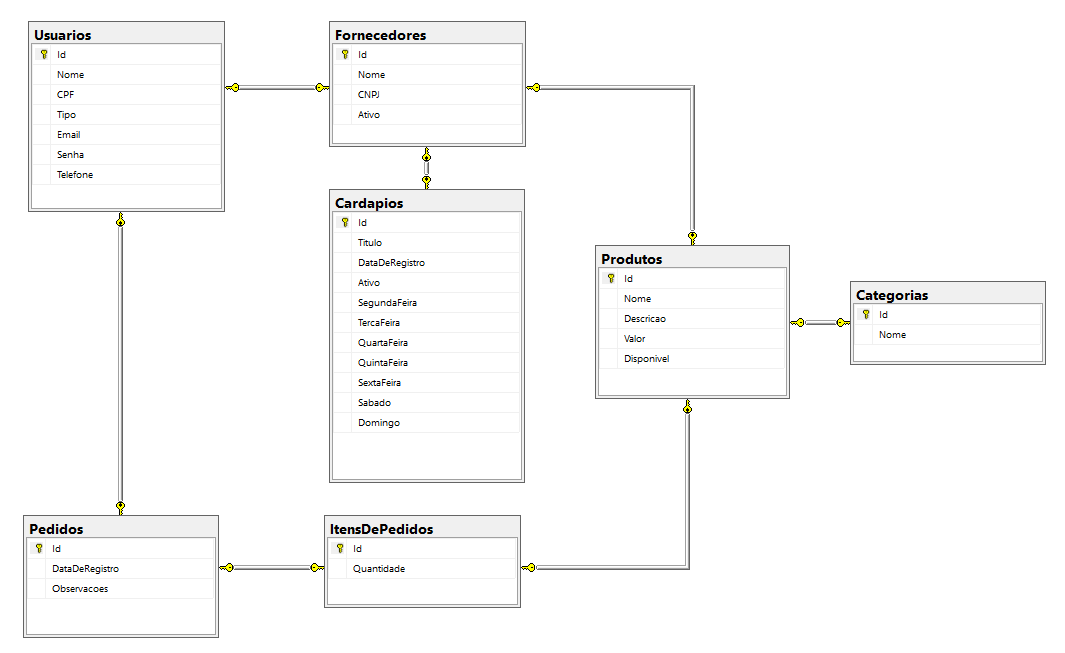
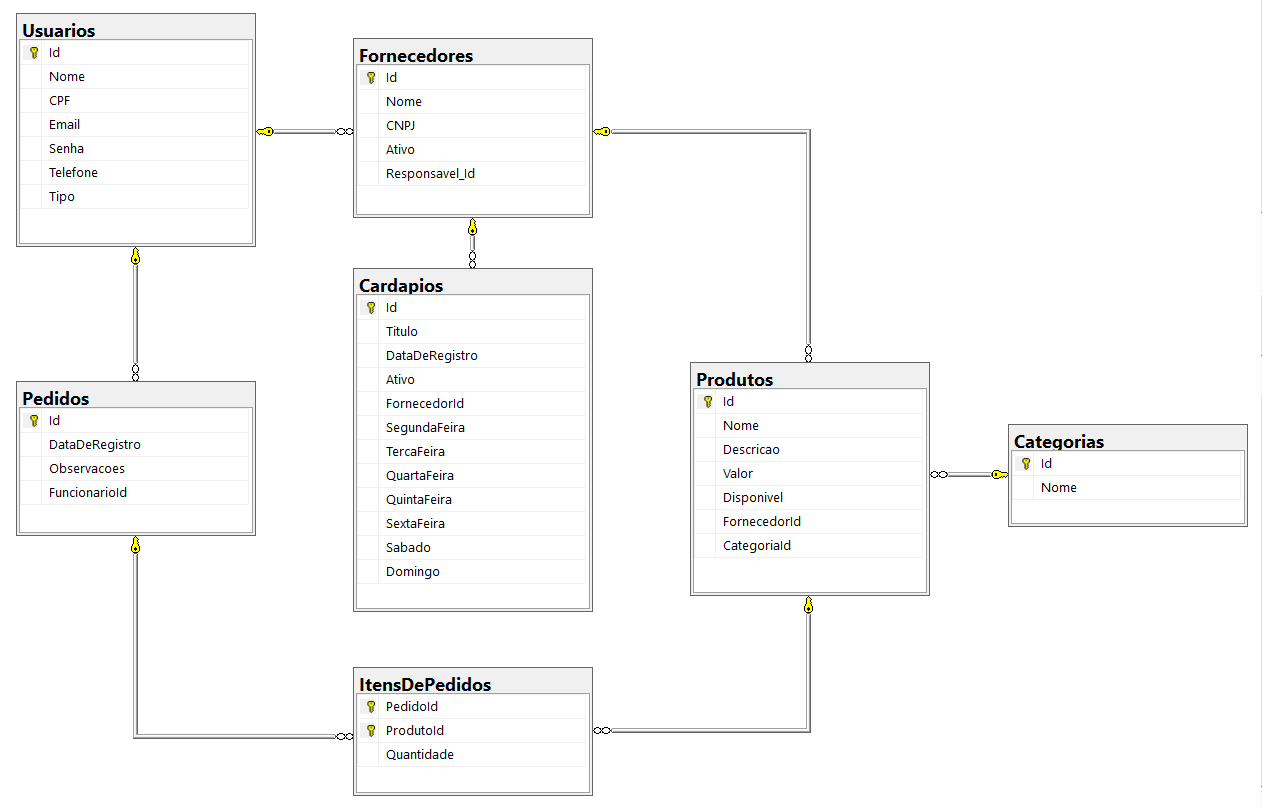
Solução do erro ao criar a chave composta em ItemPedido

diff --git a/AgileFood/Models/Maps/ItemPedidoMap.cs b/AgileFood/Models/Maps/ItemPedidoMap.cs
@@ -13,12 +13,12 @@ namespace AgileFood.Models.Maps
         {
             ToTable("ItensDePedidos");
 
-            //HasKey(a => new { a.PedidoId, a.ProdutoId });
+            HasKey(x => new { x.PedidoId, x.ProdutoId });
 
-            HasKey(x => x.Id)
-                .Property(x => x.Id)
-                .HasDatabaseGeneratedOption(DatabaseGeneratedOption.Identity)
-                .IsRequired();
+            //HasKey(x => x.Id)
+            //    .Property(x => x.Id)
+            //    .HasDatabaseGeneratedOption(DatabaseGeneratedOption.Identity)
+            //    .IsRequired();
 
             Property(x => x.Quantidade)
                 .IsRequired();

diff --git a/AgileFood/Models/AgiliFoodContext.cs b/AgileFood/Models/AgiliFoodContext.cs
@@ -9,7 +9,9 @@ namespace AgileFood.Models
     public class AgiliFoodContext : DbContext
     {
 
-        public AgiliFoodContext() : base("name=AgiliFoodContext") { }
+        public AgiliFoodContext() : base("name=AgiliFoodContext") {
+            Database.SetInitializer<AgiliFoodContext>(null);
+        }
 
         public DbSet<Cardapio> Cardapios { get; set; }
         public DbSet<Categoria> Categorias { get; set; }

diff --git a/AgileFood/Models/Produto.cs b/AgileFood/Models/Produto.cs
@@ -16,7 +16,7 @@ namespace AgileFood.Models
         public bool Disponivel { get; set; }
         public int FornecedorId { get; set; }
         public int CategoriaId { get; set; }
-
+        
         public virtual Fornecedor Fornecedor { get; set; }
         public virtual Categoria Categoria { get; set; }
         public virtual ICollection<ItemPedido> Itens { get; set; }

diff --git a/AgileFood/Models/ItemPedido.cs b/AgileFood/Models/ItemPedido.cs
@@ -2,7 +2,7 @@
 {
     public class ItemPedido
     {
-        public int Id { get; set; }
+        //public int Id { get; set; }
         public int PedidoId { get; set; }
         public virtual Pedido Pedido { get; set; }
         public int ProdutoId { get; set; }
